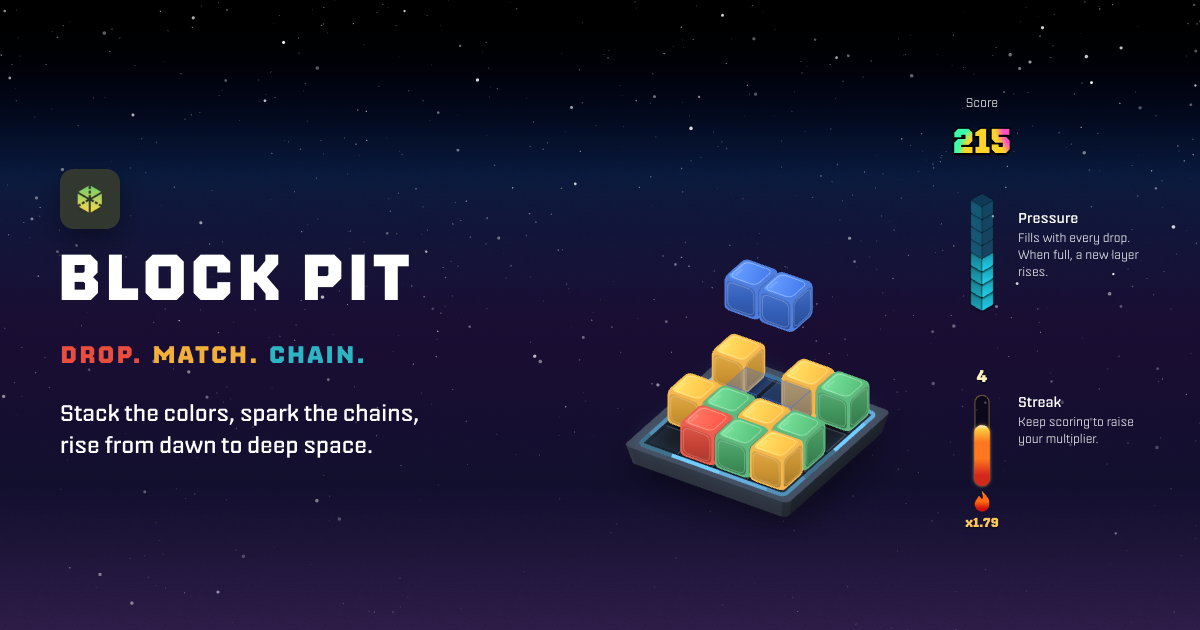
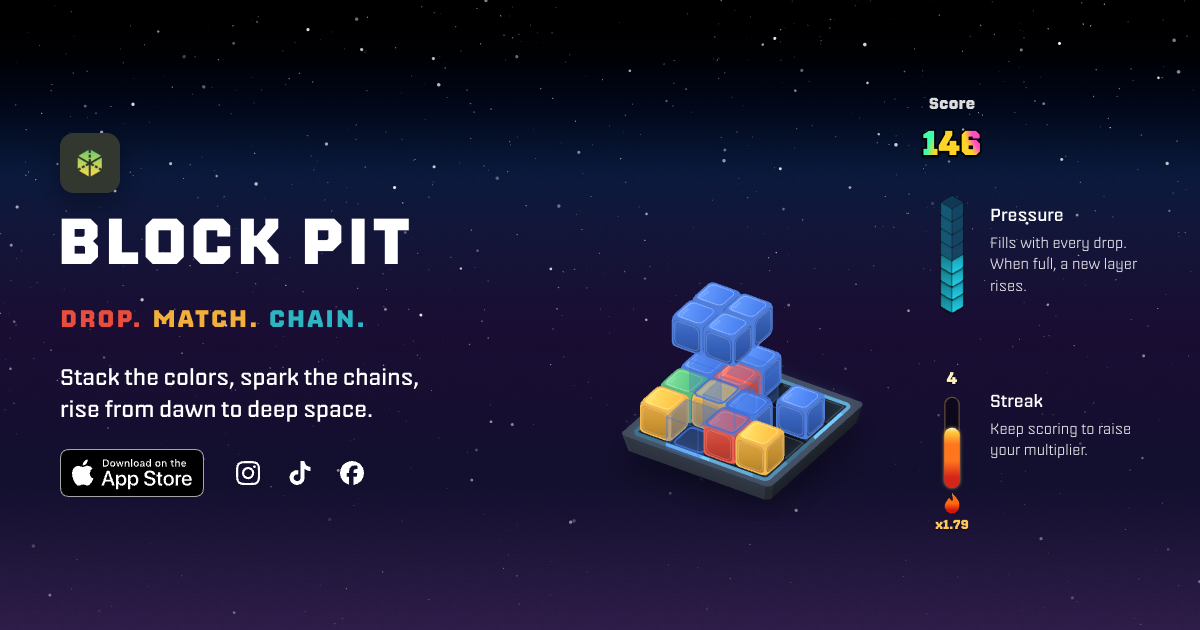
Share preview for launch: new hero image with the App Store badge
Regenerated the 1200x630 Open Graph/Twitter image from the launch hero
and switched titles and descriptions to "out now on iPhone" wording.

diff --git a/index.html b/index.html
@@ -4,7 +4,7 @@
   <meta charset="utf-8">
   <meta name="viewport" content="width=device-width, initial-scale=1, viewport-fit=cover">
   <title>Block Pit: Drop. Match. Chain.</title>
-  <meta name="description" content="Stack the colors, spark the chains, rise from dawn to deep space. Block Pit is a 3D block puzzle, out now on iPhone.">
+  <meta name="description" content="Stack the colors, spark the chains, rise from dawn to deep space. Block Pit is out now on the App Store for iPhone.">
   <meta name="theme-color" content="#000000">
   <link rel="canonical" href="https://r4mh8wp5dj-arch.github.io/">
   <link rel="icon" type="image/png" sizes="32x32" href="assets/img/favicon-32.png">
@@ -14,22 +14,22 @@
   <meta property="og:type" content="website">
   <meta property="og:site_name" content="Block Pit">
   <meta property="og:url" content="https://r4mh8wp5dj-arch.github.io/">
-  <meta property="og:title" content="Block Pit: Drop. Match. Chain.">
-  <meta property="og:description" content="Stack the colors, spark the chains, rise from dawn to deep space. Block Pit is a 3D block puzzle, out now on iPhone.">
+  <meta property="og:title" content="Block Pit: out now on iPhone">
+  <meta property="og:description" content="Stack the colors, spark the chains, rise from dawn to deep space. Block Pit is out now on the App Store for iPhone.">
   <meta property="og:image" content="https://r4mh8wp5dj-arch.github.io/assets/img/share.png">
   <meta property="og:image:width" content="1200">
   <meta property="og:image:height" content="630">
-  <meta property="og:image:alt" content="Block Pit: blocks stacked in a glowing pit under a starry sky, with the tagline Drop. Match. Chain.">
+  <meta property="og:image:alt" content="Block Pit: blocks stacked in a glowing pit under a starry sky, with the tagline Drop. Match. Chain. and a Download on the App Store badge.">
   <meta name="twitter:card" content="summary_large_image">
-  <meta name="twitter:title" content="Block Pit: Drop. Match. Chain.">
-  <meta name="twitter:description" content="Stack the colors, spark the chains, rise from dawn to deep space. Block Pit is a 3D block puzzle, out now on iPhone.">
+  <meta name="twitter:title" content="Block Pit: out now on iPhone">
+  <meta name="twitter:description" content="Stack the colors, spark the chains, rise from dawn to deep space. Block Pit is out now on the App Store for iPhone.">
   <meta name="twitter:image" content="https://r4mh8wp5dj-arch.github.io/assets/img/share.png">
   <script type="application/ld+json">
   {
     "@context": "https://schema.org",
     "@type": "VideoGame",
     "name": "Block Pit",
-    "description": "Stack the colors, spark the chains, rise from dawn to deep space. A 3D block puzzle for iPhone.",
+    "description": "Stack the colors, spark the chains, rise from dawn to deep space. A 3D block puzzle, out now on iPhone.",
     "url": "https://r4mh8wp5dj-arch.github.io/",
     "image": "https://r4mh8wp5dj-arch.github.io/assets/img/share.png",
     "genre": "Puzzle",
@@ -41,11 +41,11 @@
   }
   </script>
   <link rel="preload" href="assets/fonts/Nippo-Variable.ttf" as="font" type="font/ttf" crossorigin>
-  <link rel="stylesheet" href="styles.css?v=f2cc04b">
-  <script src="js/sky.js?v=f2cc04b"></script>
-  <script src="js/iso.js?v=f2cc04b" defer></script>
-  <script src="js/site.js?v=f2cc04b" defer></script>
-  <script src="js/play.js?v=f2cc04b" defer></script>
+  <link rel="stylesheet" href="styles.css?v=20635ab">
+  <script src="js/sky.js?v=20635ab"></script>
+  <script src="js/iso.js?v=20635ab" defer></script>
+  <script src="js/site.js?v=20635ab" defer></script>
+  <script src="js/play.js?v=20635ab" defer></script>
 </head>
 <body class="home">
   <svg class="sprite" aria-hidden="true" focusable="false">

diff --git a/contact.html b/contact.html
@@ -19,16 +19,16 @@
   <meta property="og:image" content="https://r4mh8wp5dj-arch.github.io/assets/img/share.png">
   <meta property="og:image:width" content="1200">
   <meta property="og:image:height" content="630">
-  <meta property="og:image:alt" content="Block Pit: blocks stacked in a glowing pit under a starry sky, with the tagline Drop. Match. Chain.">
+  <meta property="og:image:alt" content="Block Pit: blocks stacked in a glowing pit under a starry sky, with the tagline Drop. Match. Chain. and a Download on the App Store badge.">
   <meta name="twitter:card" content="summary_large_image">
   <meta name="twitter:title" content="Contact Block Pit">
   <meta name="twitter:description" content="Questions, press or feedback about Block Pit: email or Instagram.">
   <meta name="twitter:image" content="https://r4mh8wp5dj-arch.github.io/assets/img/share.png">
   <link rel="preload" href="assets/fonts/Nippo-Variable.ttf" as="font" type="font/ttf" crossorigin>
-  <link rel="stylesheet" href="styles.css?v=f2cc04b">
-  <script src="js/sky.js?v=f2cc04b"></script>
-  <script src="js/iso.js?v=f2cc04b" defer></script>
-  <script src="js/hello.js?v=f2cc04b" defer></script>
+  <link rel="stylesheet" href="styles.css?v=20635ab">
+  <script src="js/sky.js?v=20635ab"></script>
+  <script src="js/iso.js?v=20635ab" defer></script>
+  <script src="js/hello.js?v=20635ab" defer></script>
 </head>
 <body>
   <svg class="sprite" aria-hidden="true" focusable="false">

diff --git a/privacy.html b/privacy.html
@@ -19,15 +19,15 @@
   <meta property="og:image" content="https://r4mh8wp5dj-arch.github.io/assets/img/share.png">
   <meta property="og:image:width" content="1200">
   <meta property="og:image:height" content="630">
-  <meta property="og:image:alt" content="Block Pit: blocks stacked in a glowing pit under a starry sky, with the tagline Drop. Match. Chain.">
+  <meta property="og:image:alt" content="Block Pit: blocks stacked in a glowing pit under a starry sky, with the tagline Drop. Match. Chain. and a Download on the App Store badge.">
   <meta name="twitter:card" content="summary_large_image">
   <meta name="twitter:title" content="Block Pit Privacy Policy">
   <meta name="twitter:description" content="How Block Pit handles your data, advertising, analytics and your rights.">
   <meta name="twitter:image" content="https://r4mh8wp5dj-arch.github.io/assets/img/share.png">
   <link rel="preload" href="assets/fonts/Nippo-Variable.ttf" as="font" type="font/ttf" crossorigin>
-  <link rel="stylesheet" href="styles.css?v=f2cc04b">
-  <script src="js/sky.js?v=f2cc04b"></script>
-  <script src="js/toc.js?v=f2cc04b" defer></script>
+  <link rel="stylesheet" href="styles.css?v=20635ab">
+  <script src="js/sky.js?v=20635ab"></script>
+  <script src="js/toc.js?v=20635ab" defer></script>
 </head>
 <body>
   <svg class="sprite" aria-hidden="true" focusable="false">

diff --git a/tools/share-image.js b/tools/share-image.js
@@ -6,7 +6,7 @@ const CHROME = process.env.CHROME_PATH || '/Applications/Google Chrome.app/Conte
   const p = await b.newPage();
   await p.setViewport({ width: 1200, height: 630, deviceScaleFactor: 1 });
   await p.goto('http://localhost:8765/index.html', { waitUntil: 'networkidle0' });
-  await p.addStyleTag({ content: '.bar,.rail,.soon,.notify,.pit-pops{display:none!important}.hero{min-height:630px!important;padding-top:0!important;padding-bottom:0!important;align-items:center}' });
+  await p.addStyleTag({ content: '.bar,.pit-pops{display:none!important}.hero{min-height:630px!important;padding-top:0!important;padding-bottom:0!important;align-items:center}' });
   await new Promise(r => setTimeout(r, 9000));
   await p.screenshot({ path: path.resolve(__dirname, '../assets/img/share.png'), clip: { x: 0, y: 0, width: 1200, height: 630 } });
   await b.close();

diff --git a/404.html b/404.html
@@ -11,10 +11,10 @@
   <link rel="icon" type="image/png" sizes="16x16" href="/assets/img/favicon-16.png">
   <link rel="apple-touch-icon" sizes="180x180" href="/assets/img/apple-touch-icon.png">
   <link rel="preload" href="/assets/fonts/Nippo-Variable.ttf" as="font" type="font/ttf" crossorigin>
-  <link rel="stylesheet" href="/styles.css?v=f2cc04b">
-  <script src="/js/sky.js?v=f2cc04b"></script>
-  <script src="/js/iso.js?v=f2cc04b" defer></script>
-  <script src="/js/lost.js?v=f2cc04b" defer></script>
+  <link rel="stylesheet" href="/styles.css?v=20635ab">
+  <script src="/js/sky.js?v=20635ab"></script>
+  <script src="/js/iso.js?v=20635ab" defer></script>
+  <script src="/js/lost.js?v=20635ab" defer></script>
 </head>
 <body>
   <main class="lost" data-ink>
